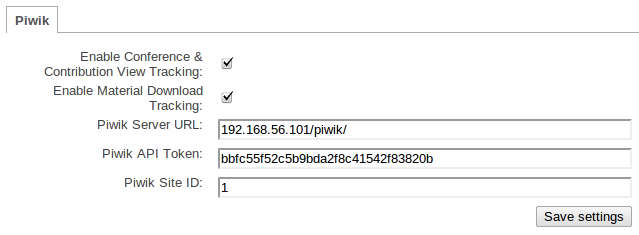
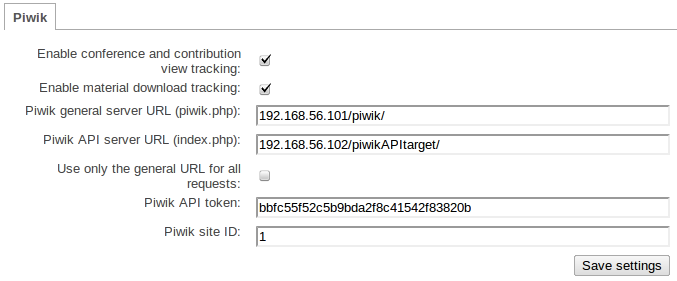
[DOC] Piwik Documentation Update
* Explains difference between the 2 URLs
* Updated screenshot of options

diff --git a/doc/guides/Statistics/piwik_admin.rst b/doc/guides/Statistics/piwik_admin.rst
@@ -21,6 +21,8 @@ Underneath the global plugin options you will see each implementation has a tab 
   is active, a listener on Material downloads will then track the download in the Piwik instance.
 - Piwik Server URL: The URL to your Piwik instance in format `xxx.xxx.xxx.xxx/$path` (
   `$path` is optional, the URL should be the directory where `piwik.php` is located).
+- Piwik API Server URL: If your configuration requires a separate URL for API queries (targetting index.php), you may specify the address here in the same format as the Piwik Server URL here.
+- Use Only General URL: If this is enabled, only the first URL (Piwik Server URL) is used for *all* requests. If disabled, the plugin will use the latter URL (Piwik API Server URL) for all API requests.
 - Piwik API Token: The full API token provided by Piwik for your username & site ID
   combination.
 - Piwik Site ID: The integer ID assigned to each site in Piwik as a method of internal
